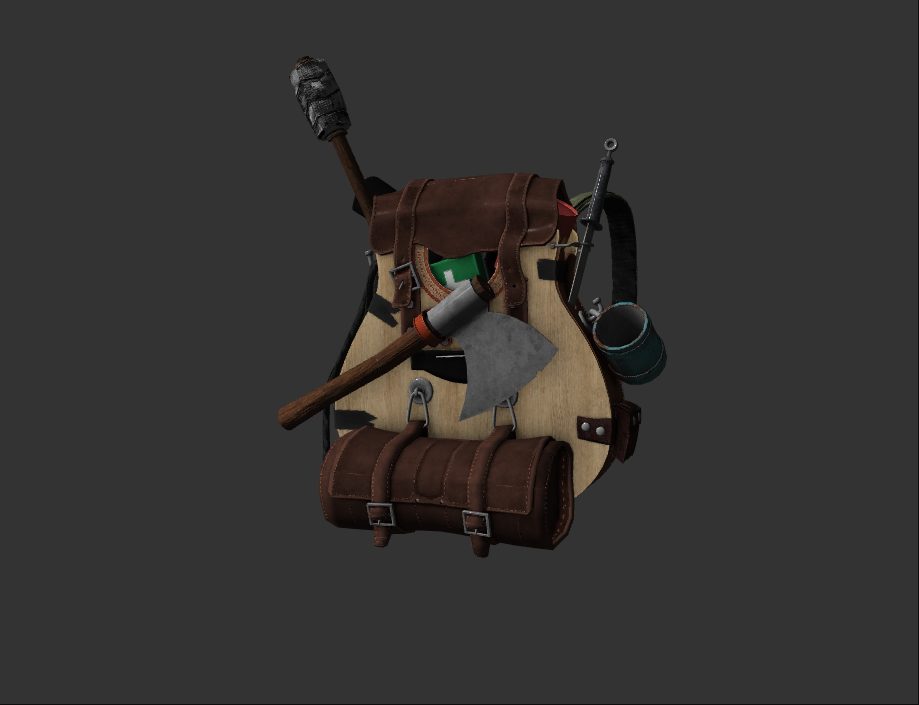
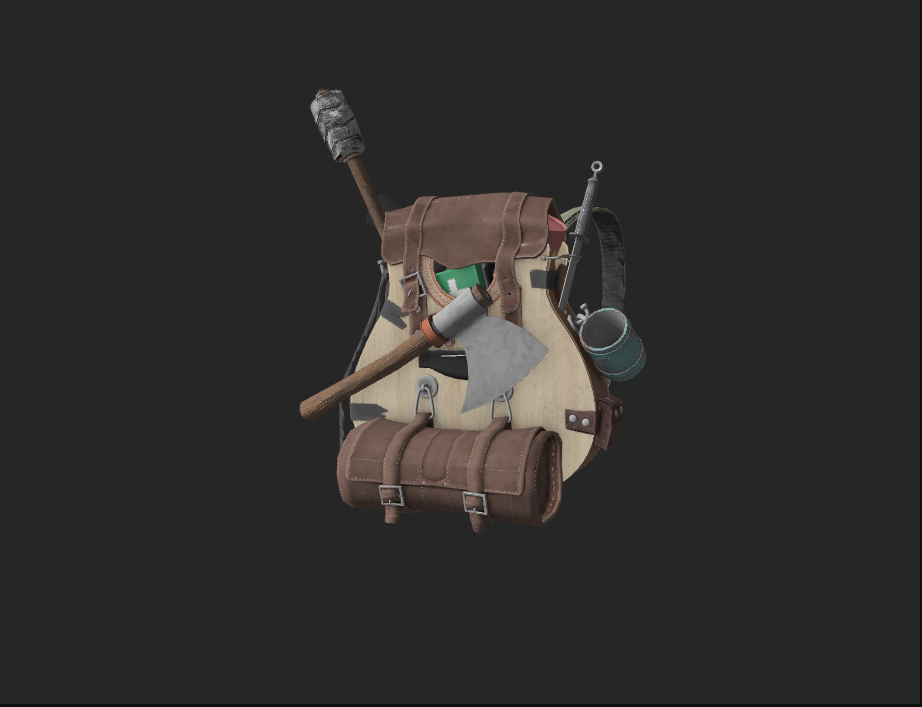
added gamma correction to rasterizer

Changed region(s): [[0.3047, 0.0936, 0.7312, 0.8113], [0.975, 0.9674, 1.0, 0.9986]]

diff --git a/raytracing.h b/raytracing.h
@@ -74,9 +74,11 @@ __device__ Vec3 ray_color(Ray& r, Hitable* obj, curandState* local_rand_state, i
 			Vec3 c = Vec3(col_hdri.x, col_hdri.y, col_hdri.z);
 			Vec3 lDir(1, -1, -1);
 			c = Vec3(powf(fmaxf(dot(d_normalize(-cur_ray.direction), d_normalize(lDir)), 0.0f),1.0f) + 0.2f);
-			c = c * c;
-			//Vec3 c = Vec3(0.2f);
+			
+			if(i == 0)
+				c = Vec3(0.15f);
 			//reverse Gamma correction
+			c = c * c;
 			return cur_attenuation * c;
 		}
 	}

diff --git a/Camera.h b/Camera.h
@@ -97,7 +97,7 @@ private:
 	Scene& scene;
 	glm::mat4 projection = glm::mat4(1);
 	glm::mat4 view = glm::mat4(1);
-	glm::vec4 clearColor = glm::vec4(0.2f, 0.2f, 0.2f, 1.0f);
+	glm::vec4 clearColor = glm::vec4(0.15f, 0.15f, 0.15f, 1.0f);
 	Shader shader, normalsShader, aabbShader;
 	uint intermediateFBO = 0;
 	uint framebuffer = 0;
